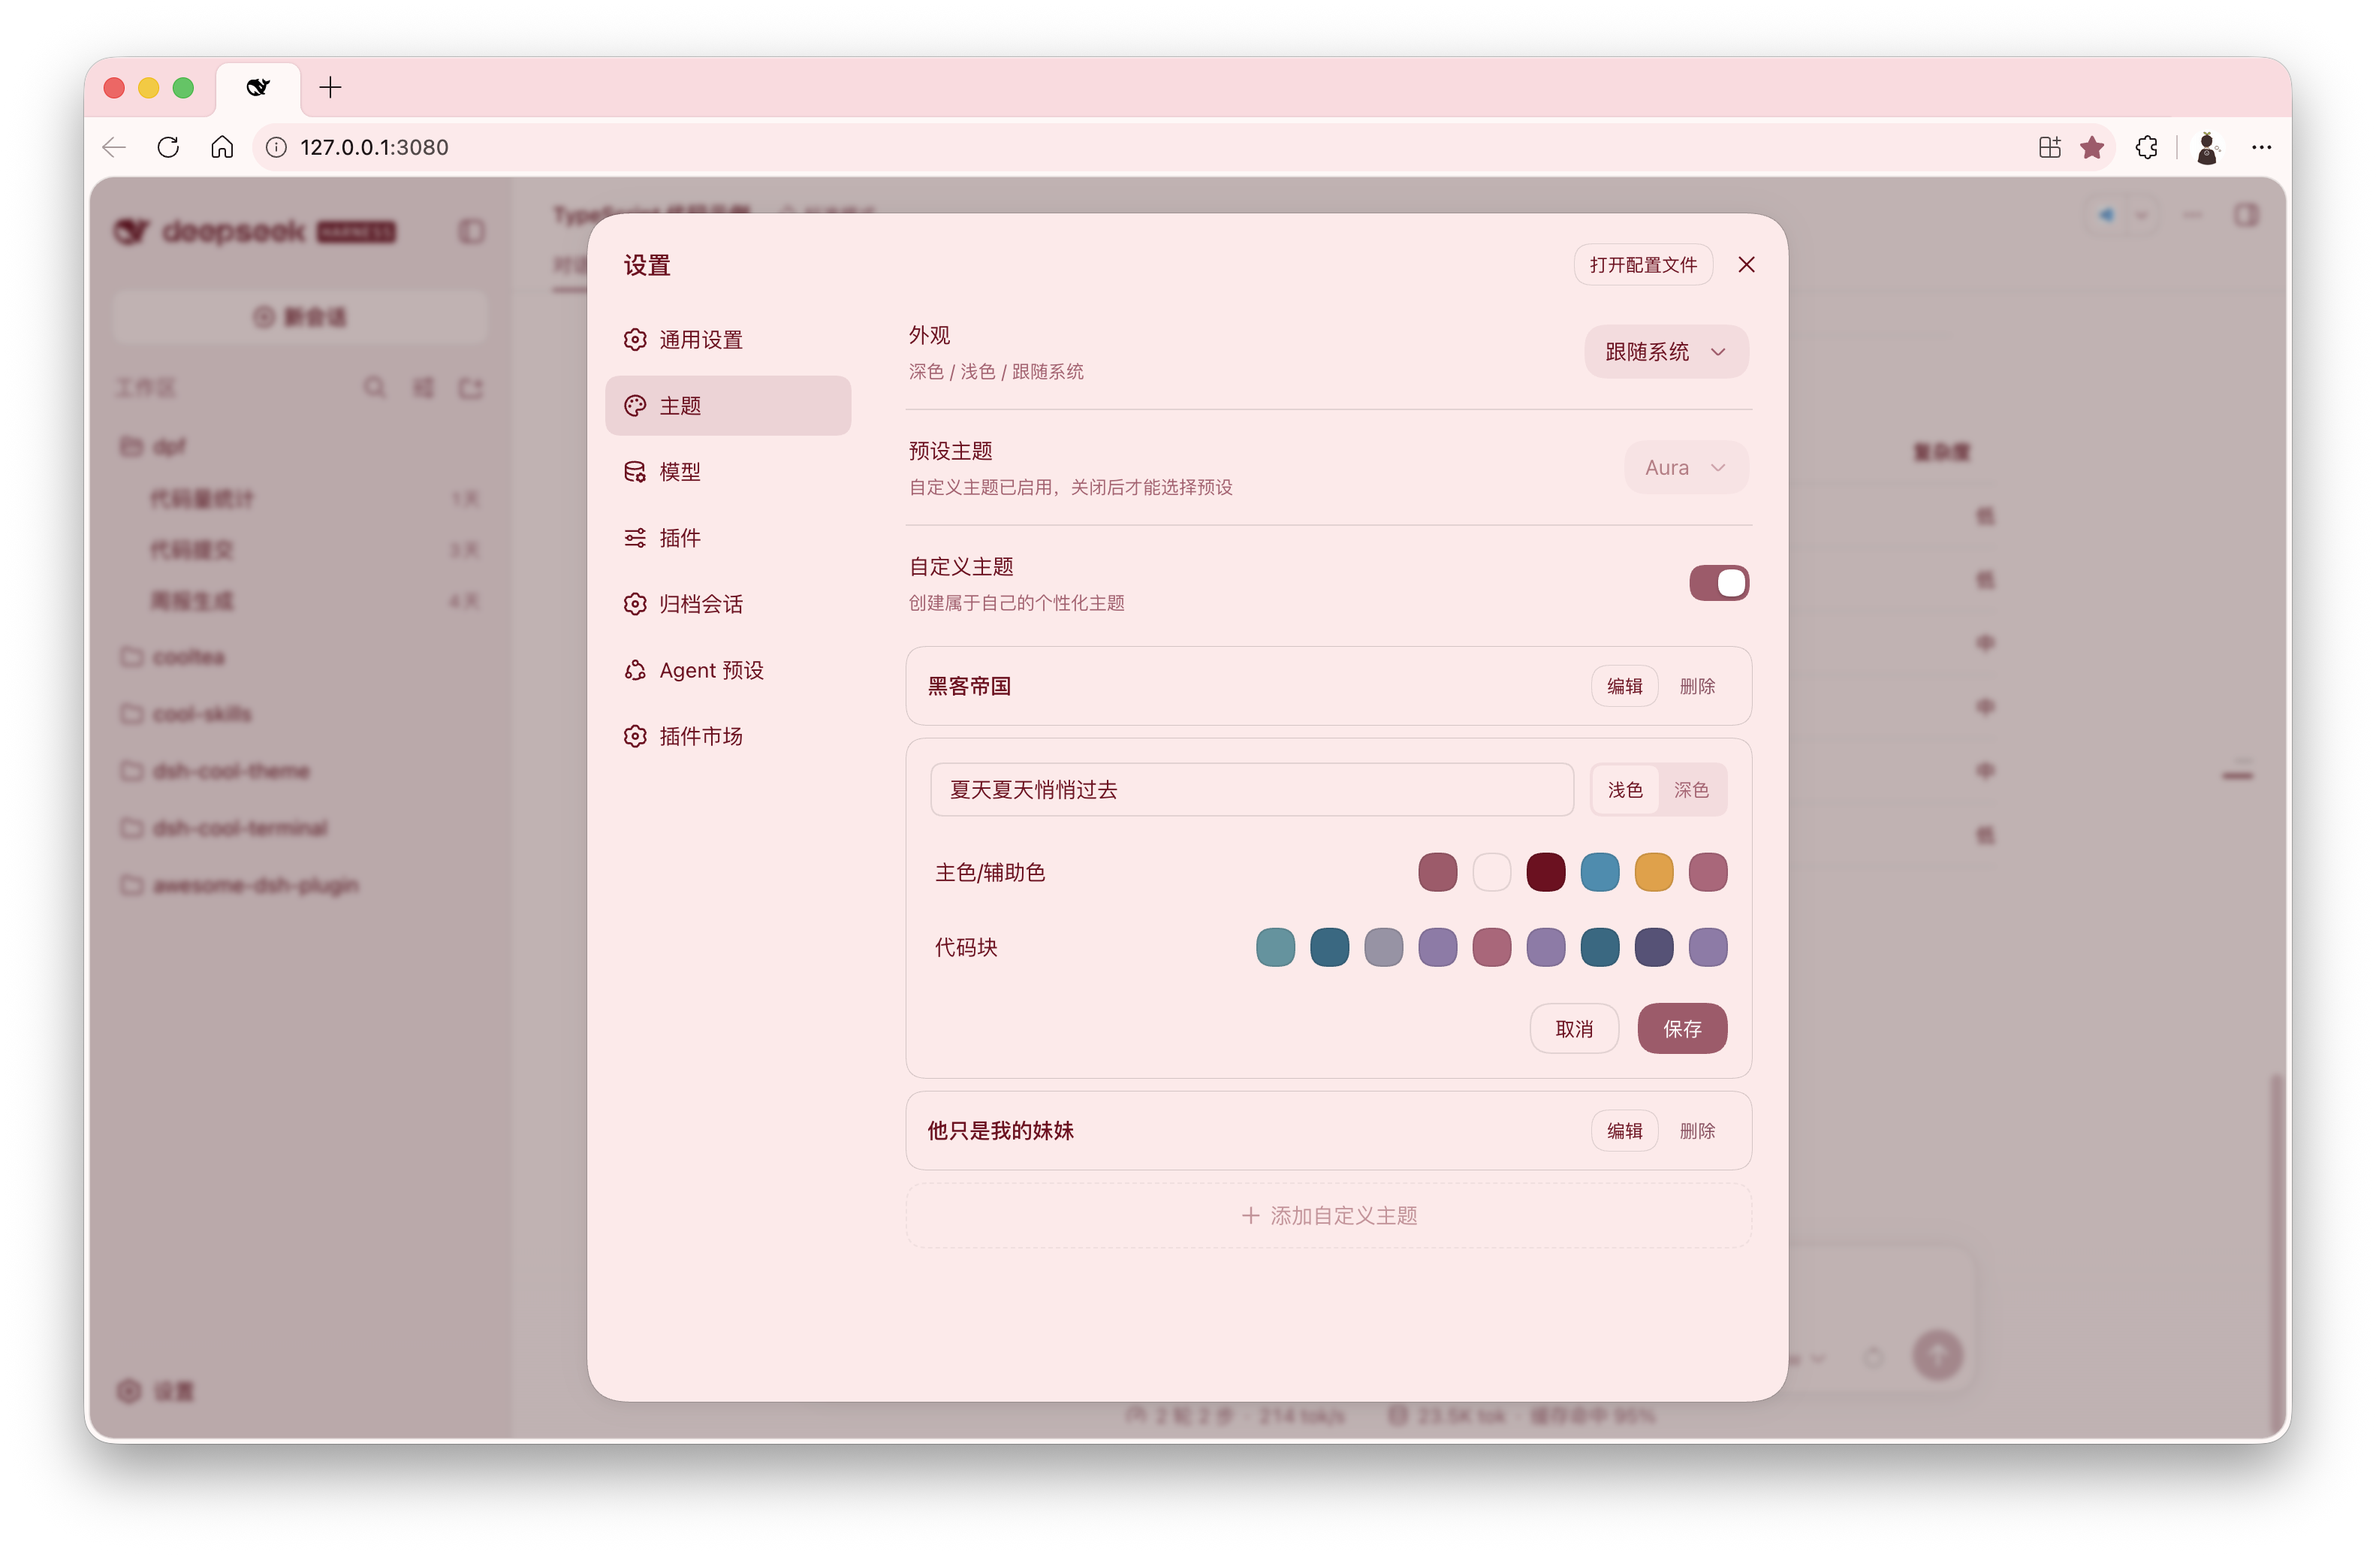
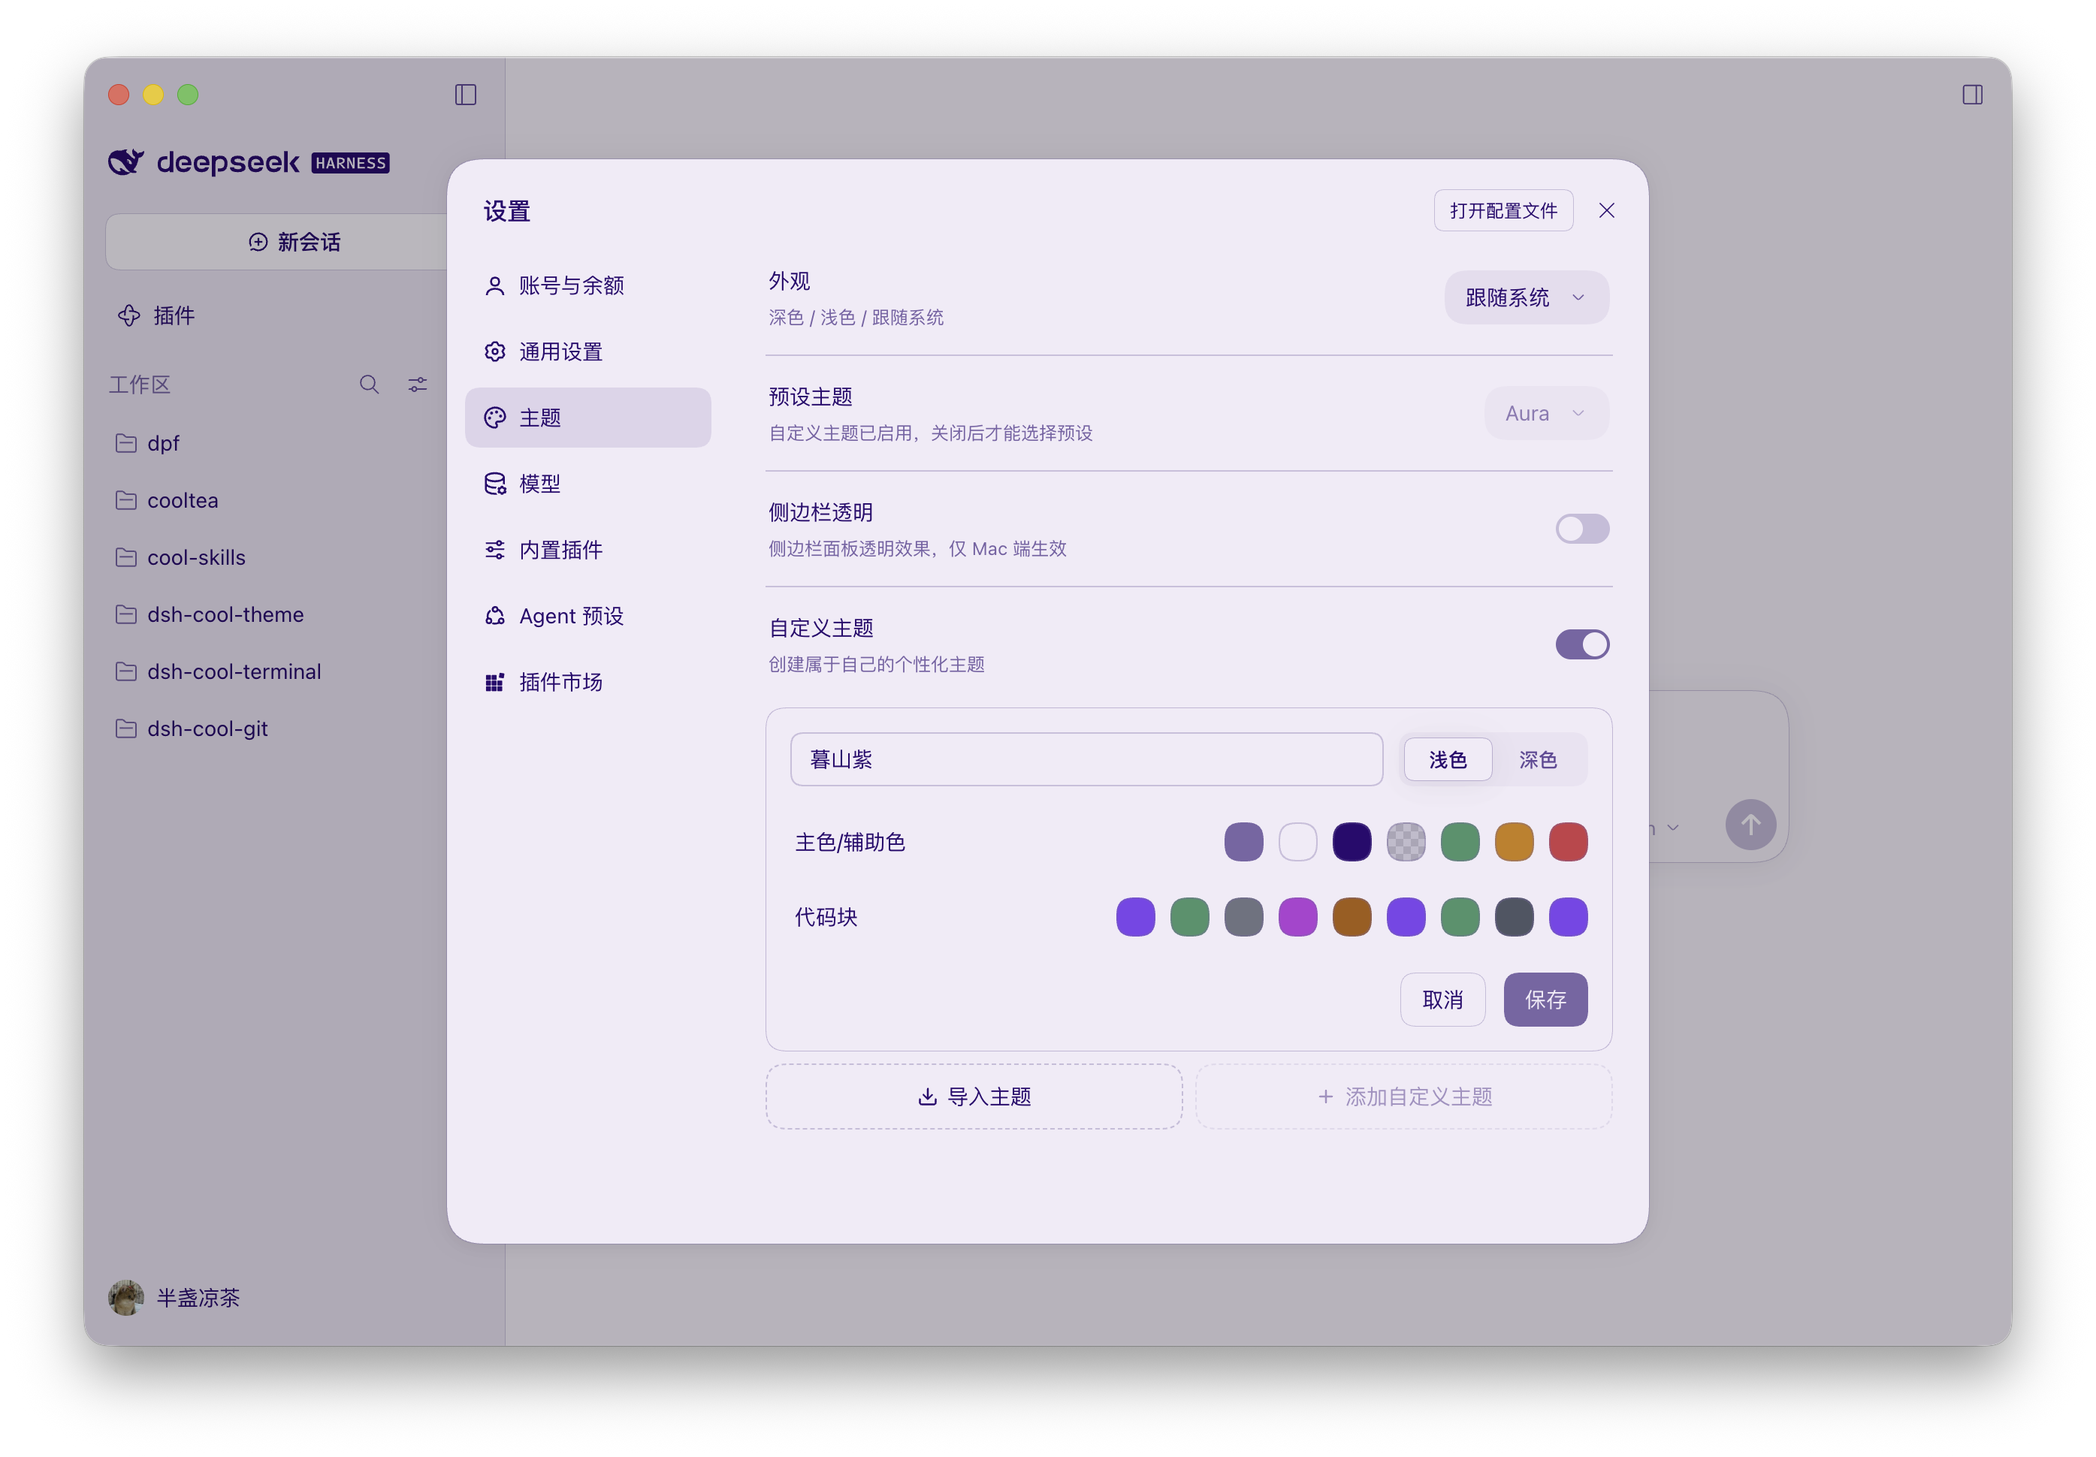
docs: trim the README and refresh the preview images
- Simplify install/uninstall to DSH's add-plugin flow and drop the
  outdated feature notes from README.md / README.zh.md.
- Point the cover at readme-cover-v0.8.0.png.
- Replace the six preview screenshots with the two current ones and
  update screenshots.json to match.

diff --git a/README.md b/README.md
@@ -1,4 +1,4 @@
-![dsh-cool-theme cover](https://cdn.cooltea.top/dsh-cool-theme/readme-cover-v0.6.0.png)
+![dsh-cool-theme cover](https://cdn.cooltea.top/dsh-cool-theme/readme-cover-v0.8.0.png)
 
 # dsh-cool-theme
 
@@ -8,27 +8,19 @@ English · [中文](./README.zh.md)
 
 ## Description
 
-DeepSeek Harness theme plugin — supports Dark / Light / System appearance switching, ships 34 preset themes, and supports creating, sharing, and importing custom themes.
+DeepSeek Harness theme plugin — supports dark/light appearance switching, ships 34 preset themes, and supports creating, sharing, and importing custom themes.
 
 ## Features
 
-1. **Appearance switching:** The appearance switch from General settings is now managed in Theme settings. You can set the appearance (dark, light, or system) in the Settings dialog → Theme tab.
-2. **34 preset themes:** 34 built-in presets, each adapted to both dark and light appearance: Aura, Ayu, Catppuccin, Catppuccin Frappe, Catppuccin Macchiato, Cobalt2, Cursor, DSH, Dracula, Everforest, Flexoki, GitHub, Gruvbox, Kanagawa, Lucent Orng, Material, Matrix, Mercury, Monokai, Night Owl, Nord, One Dark, OpenCode, Orng, Osaka Jade, Palenight, Rosé Pine, Solarized, Synthwave 84, System, Tokyo Night, Vercel, Vesper, Zenburn.
-3. **Sidebar transparency:** A switch between Preset themes and Custom theme controls the sidebar panel transparency on macOS; it is off (opaque sidebar) by default.
-4. **Custom themes:** Turn on custom themes to create your own (colors inherit from the currently selected preset). The editor covers the palette and the nine syntax tokens, plus a border swatch between Foreground and Success: pick the border color and its opacity, and every border level the shell paints — sidebars, tab bars, cards, buttons — is derived from it automatically.
-5. **Accent-tinted controls:** Under any preset or custom theme, DSH's filled buttons, switches, checkboxes and tooltips take the theme's accent instead of the monochrome foreground DSH paints by default. The accent is the palette's own accent scale — the color DSH already spends on focus rings and links — and the text printed on it, plus the tooltip surface, are derived from it and checked for contrast. The **DSH** preset keeps the original monochrome controls.
-6. **Sharing themes:** Share custom themes you have created, or import custom themes shared by others.
+1. **Appearance switching:** The appearance switch from General settings is now managed in Theme settings. You can set the appearance (dark, light, or system) in the Settings dialog → Theme tab
+2. **34 preset themes:** 34 built-in presets, each adapted to both dark and light appearance: Aura, Ayu, Catppuccin, Catppuccin Frappe, Catppuccin Macchiato, Cobalt2, Cursor, DSH, Dracula, Everforest, Flexoki, GitHub, Gruvbox, Kanagawa, Lucent Orng, Material, Matrix, Mercury, Monokai, Night Owl, Nord, One Dark, OpenCode, Orng, Osaka Jade, Palenight, Rosé Pine, Solarized, Synthwave 84, System, Tokyo Night, Vercel, Vesper, Zenburn
+3. **Sidebar transparency:** A switch controls the sidebar panel transparency on macOS
+4. **Custom themes:** Turn on custom themes to create your own (colors inherit from the currently selected preset)
+5. **Sharing themes:** Share custom themes you have created, or import custom themes shared by others
 
 ## Installation
 
-```bash
-# Install: dsh plugin --profile <your-profile> add dsh-cool-theme
-dsh plugin --profile web add dsh-cool-theme # Web
-dsh plugin --profile desktop add dsh-cool-theme # Desktop
-
-# Uninstall
-dsh plugin --profile <your-profile> remove dsh-cool-theme
-```
+Use DSH's add-plugin feature and enter the package name: dsh-cool-theme.
 
 ## Contributing
 
@@ -45,8 +37,7 @@ pnpm install
 // Start local development
 pnpm run dev
 
-// Local install
-dsh plugin --profile <your-profile> add /absolute/path/to/dsh-cool-theme
+// Local install: use DSH's add-plugin feature and enter the local project path
 
 // Restart DSH service
 dsh web

diff --git a/README.zh.md b/README.zh.md
@@ -1,4 +1,4 @@
-![dsh-cool-theme cover](https://cdn.cooltea.top/dsh-cool-theme/readme-cover-v0.6.0.png)
+![dsh-cool-theme cover](https://cdn.cooltea.top/dsh-cool-theme/readme-cover-v0.8.0.png)
 
 # dsh-cool-theme
 
@@ -8,27 +8,19 @@
 
 ## 描述
 
-DeepSeek Harness 主题插件 —— 支持「深色」「浅色」「跟随系统」外观切换，提供 34 款预设主题，支持创建/分享/导入自定义主题。
+DeepSeek Harness 主题插件 —— 支持深色/浅色外观切换，提供 34 款预设主题，支持创建/分享/导入自定义主题。
 
 ## 功能介绍
 
 1. **外观切换：** 将通用设置中的外观切换功能移至主题设置中管理，你可以在设置弹窗/主题标签中设置外观：深色、浅色、跟随系统
-2. **34款预设主题：** 内置 34 款预设主题，每一款主题都适配了深色/浅色外观：Aura、Ayu、Catppuccin、Catppuccin Frappe、Catppuccin Macchiato、Cobalt2、Cursor、DSH、Dracula、Everforest、Flexoki、GitHub、Gruvbox、Kanagawa、Lucent Orng、Material、Matrix、Mercury、Monokai、Night Owl、Nord、One Dark、OpenCode、Orng、Osaka Jade、Palenight、Rosé Pine、Solarized、Synthwave 84、System、Tokyo Night、Vercel、Vesper、Zenburn。
-3. **侧边栏透明：** 预设主题与自定义主题之间的开关控制 macOS 侧边栏面板透明效果，默认关闭（侧边栏不透明）。
-4. **自定义主题：** 开启自定义主题后，可以创建自定义主题（配色继承当前预设主题）。编辑器涵盖调色板与 9 个语法标记，并在「前景色」与「成功色」之间提供边框色选择器：可调整边框颜色与透明度，界面各处的边框层级（侧边栏、标签栏、卡片、按钮等）都会据此自动派生。
-5. **控件跟随主题色：** 在任意预设主题或自定义主题下，DSH 的实心按钮、开关、复选框与 tooltip 都使用主题强调色，而不是 DSH 默认绘制的单色「前景色」。强调色取自调色板自身的强调色阶（也就是 DSH 已用于焦点环与链接的颜色），其上的文字与 tooltip 底色均由该色派生并做过对比度校验。选择 **DSH** 预设则保留原本的单色控件。
-6. **主题分享：** 分享自己创建的自定义主题，或者导入他人分享的自定义主题。
+2. **34款预设主题：** 内置 34 款预设主题，每一款主题都适配了深色/浅色外观：Aura、Ayu、Catppuccin、Catppuccin Frappe、Catppuccin Macchiato、Cobalt2、Cursor、DSH、Dracula、Everforest、Flexoki、GitHub、Gruvbox、Kanagawa、Lucent Orng、Material、Matrix、Mercury、Monokai、Night Owl、Nord、One Dark、OpenCode、Orng、Osaka Jade、Palenight、Rosé Pine、Solarized、Synthwave 84、System、Tokyo Night、Vercel、Vesper、Zenburn
+3. **侧边栏透明：** 通过开关控制 macOS 侧边栏面板透明效果
+4. **自定义主题：** 开启自定义主题后，可以创建自定义主题（配色继承当前预设主题）
+5. **主题分享：** 分享自己创建的自定义主题，或者导入他人分享的自定义主题
 
 ## 安装教程
 
-```bash
-# 安装：dsh plugin --profile <your-profile> add dsh-cool-theme
-dsh plugin --profile web add dsh-cool-theme # web 端
-dsh plugin --profile desktop add dsh-cool-theme # 桌面端
-
-# 卸载
-dsh plugin --profile <your-profile> remove dsh-cool-theme
-```
+使用 DSH 的新增插件功能，输入包名：dsh-cool-theme 即可。
 
 ## 参与贡献
 
@@ -45,8 +37,7 @@ pnpm install
 // 启动本地开发
 pnpm run dev
 
-// 本地安装
-dsh plugin --profile <your-profile> add /absolute/path/to/dsh-cool-theme
+// 本地安装：使用 DSH 的新增插件功能，输入本地项目路径即可
 
 // 重启 DSH 服务
 dsh web
